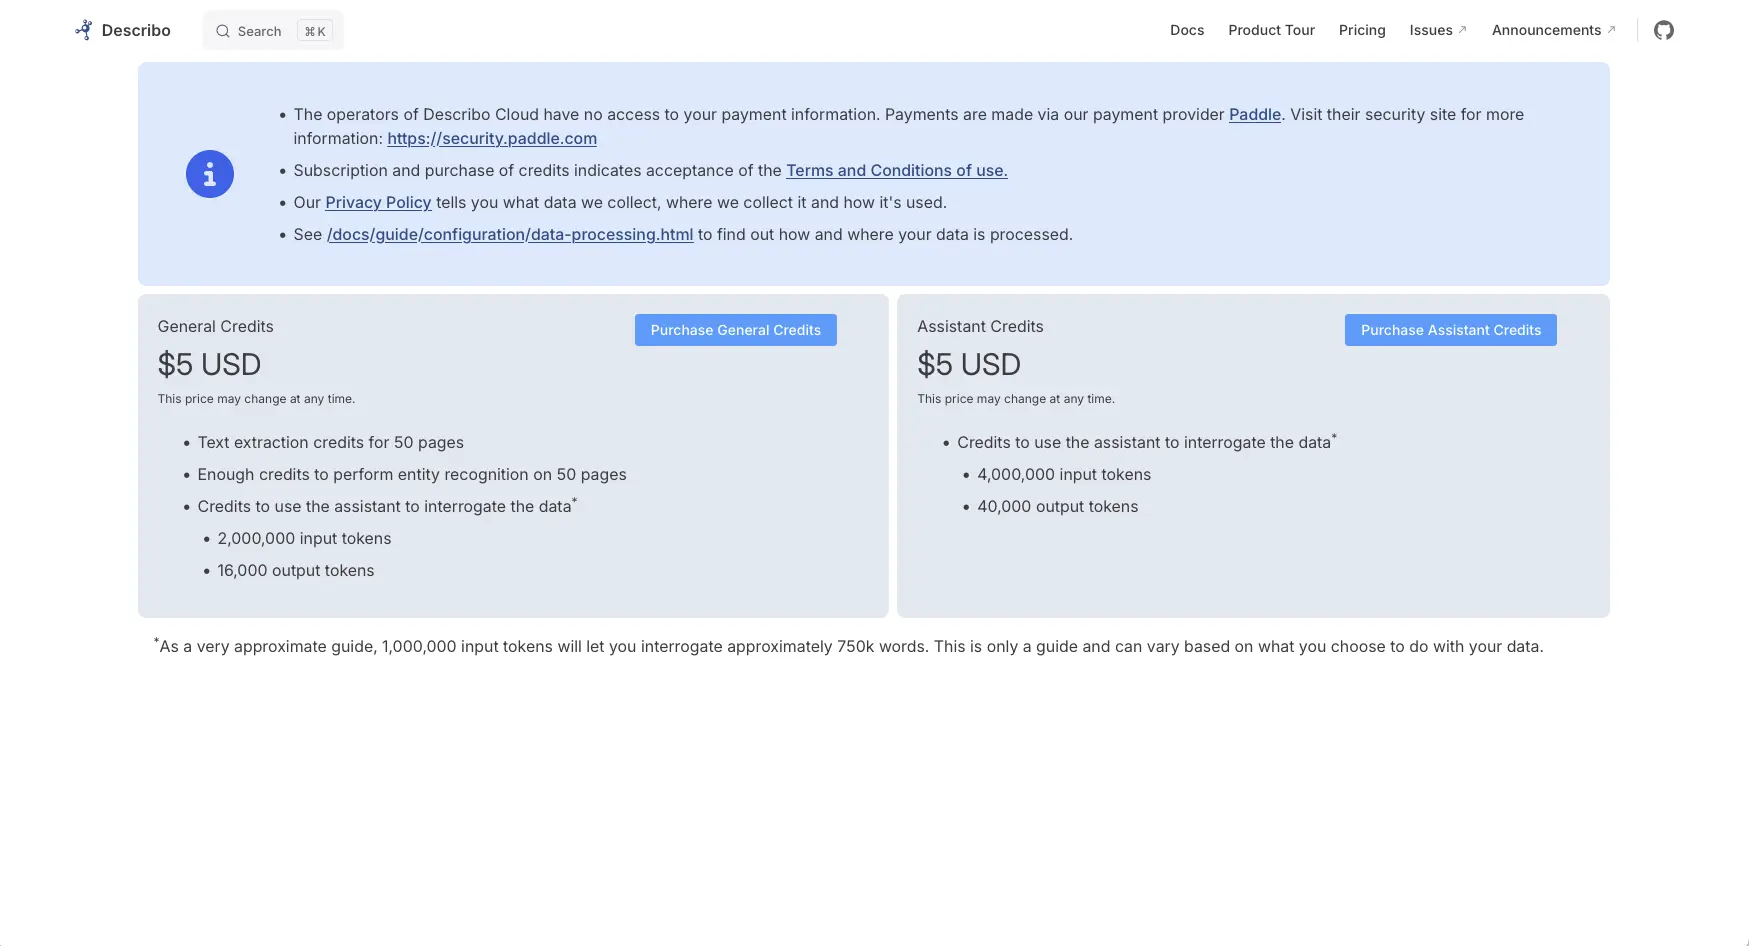
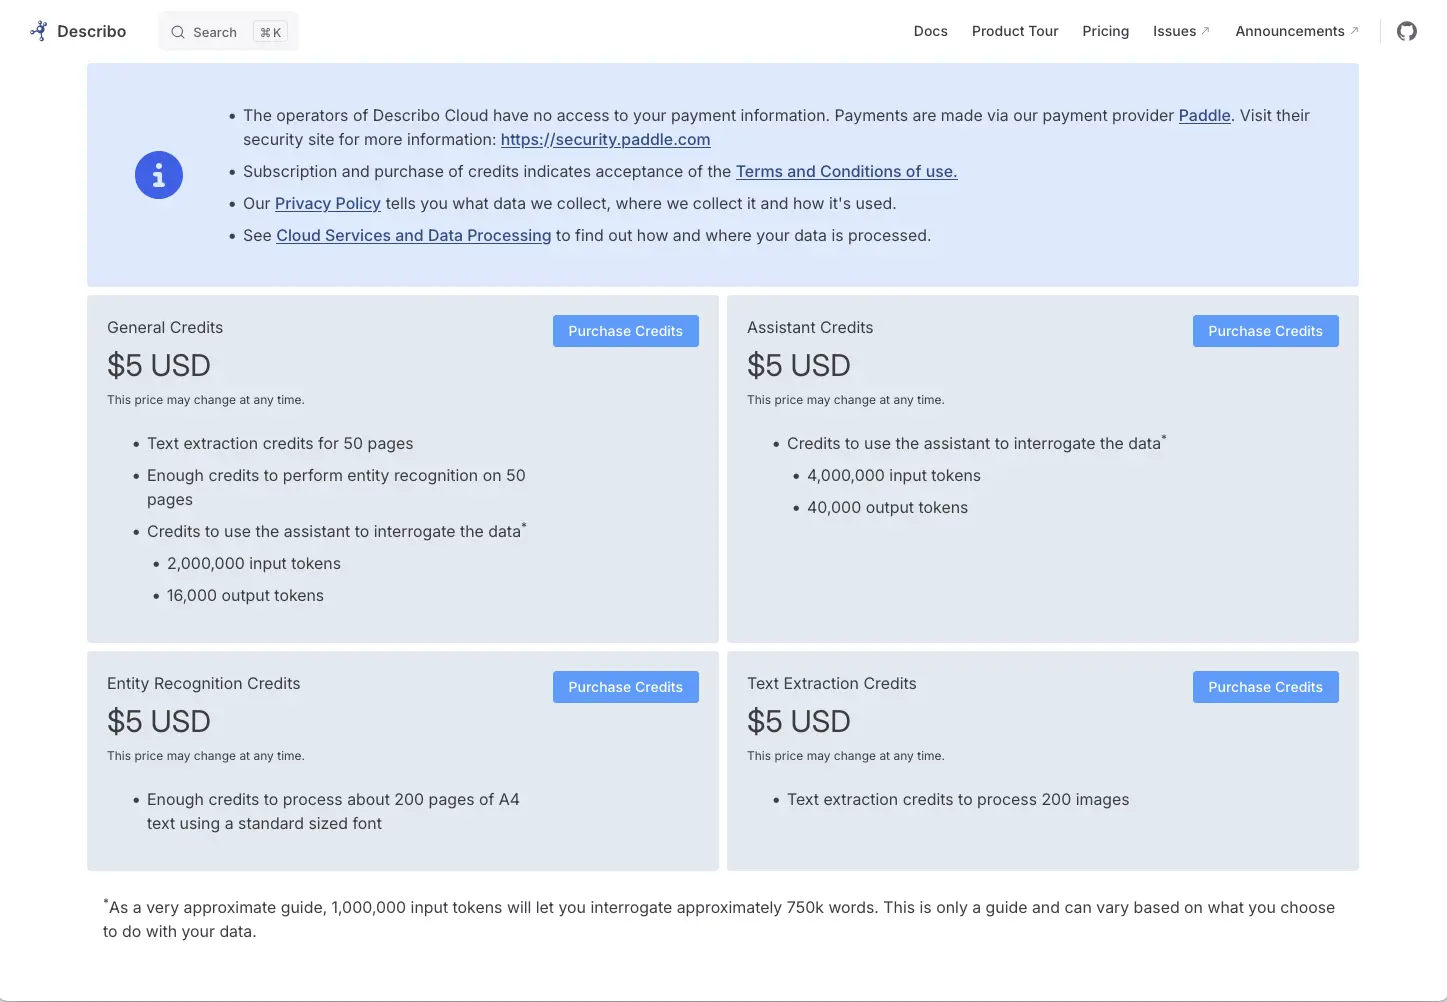
update pricing docs and screenshots

diff --git a/src/pricing.md b/src/pricing.md
@@ -4,7 +4,7 @@ layout: home
 
 <div class="my-5 md:my-10 flex flex-col space-y-4">
     <div class="text-lg bg-blue-200 p-6  rounded-lg">
-        Describo Desktop is <strong>FREE</strong> to use. If you don't want to use the text extraction, entity recognition and
+        Describo is <strong>FREE</strong> to use. If you don't want to use the text extraction, entity recognition and
         assistant capabilities there is no cost for the product.
     </div>
     <div class="text-lg bg-blue-200 p-6 rounded-lg">
@@ -13,6 +13,8 @@ layout: home
     <div class="text-2xl">
         Describo Cloud
     </div>
+    <div>Describo Cloud provides text extraction, entity recognition and assistant capabilities to enhance your workflow. The service is
+    Pay-as-you-go. You only need to purchase what you need, as you need it.</div>
     <PricingComponent :display-only="true"/>
 </div>
 

diff --git a/src/docs/guide/purchase-credits.md b/src/docs/guide/purchase-credits.md
@@ -9,6 +9,10 @@ on the Dashboard panel a page will open in your browser where you will see:
 
 <ImageComponent src="/images/configuration/purchase1.webp" />
 
+If you are just getting started and want to try all of the capabilities, purchase **General
+Credits**. As you get to know the services, you can top up the credits for specific components as
+required.
+
 Selecting the credits you wish to purchase will open the payment providers dialog:
 
 <ImageComponent src="/images/configuration/purchase2.webp" />
